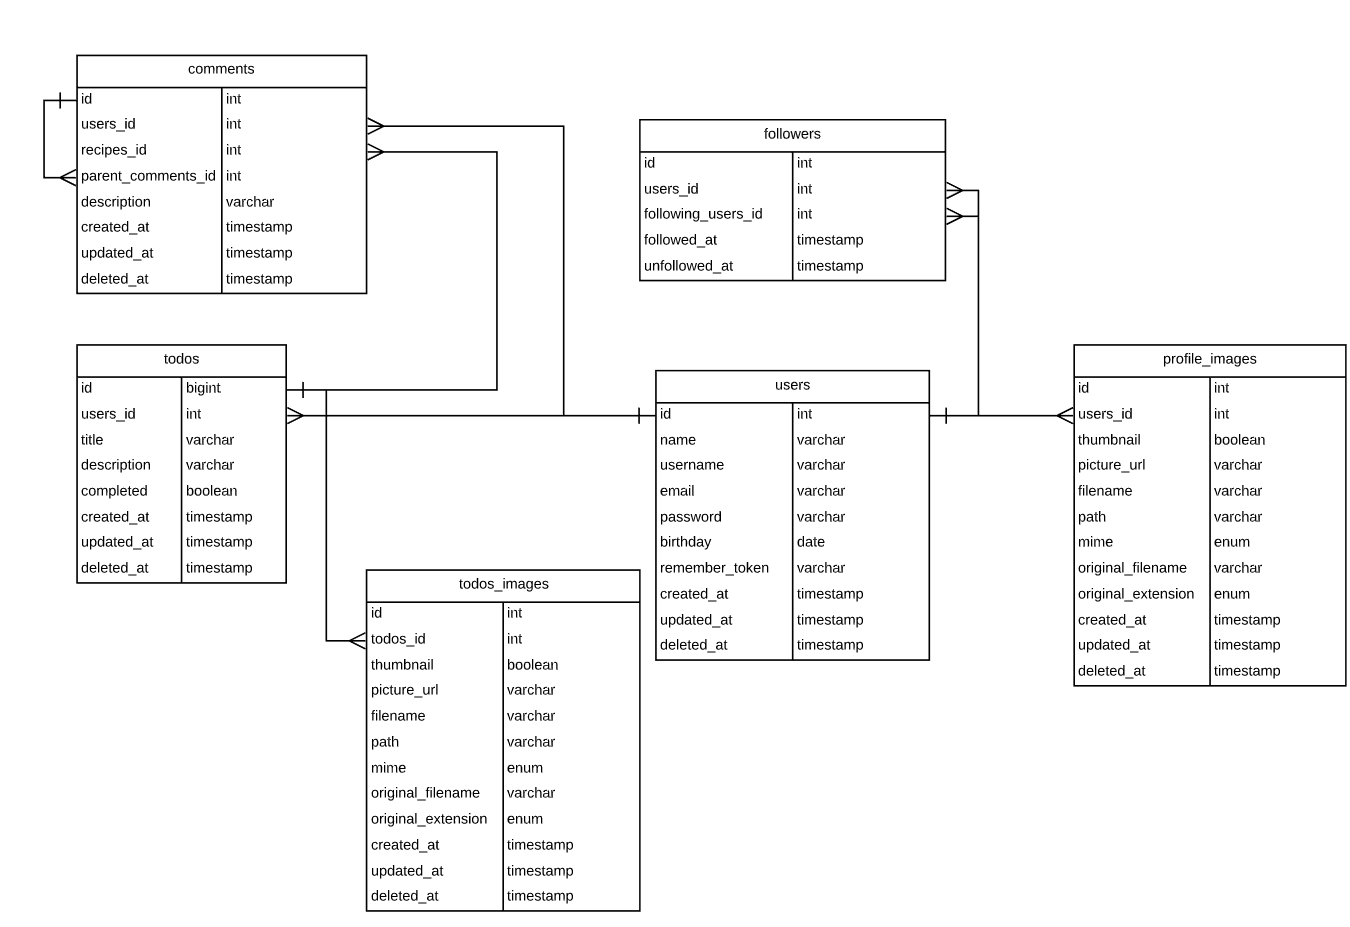
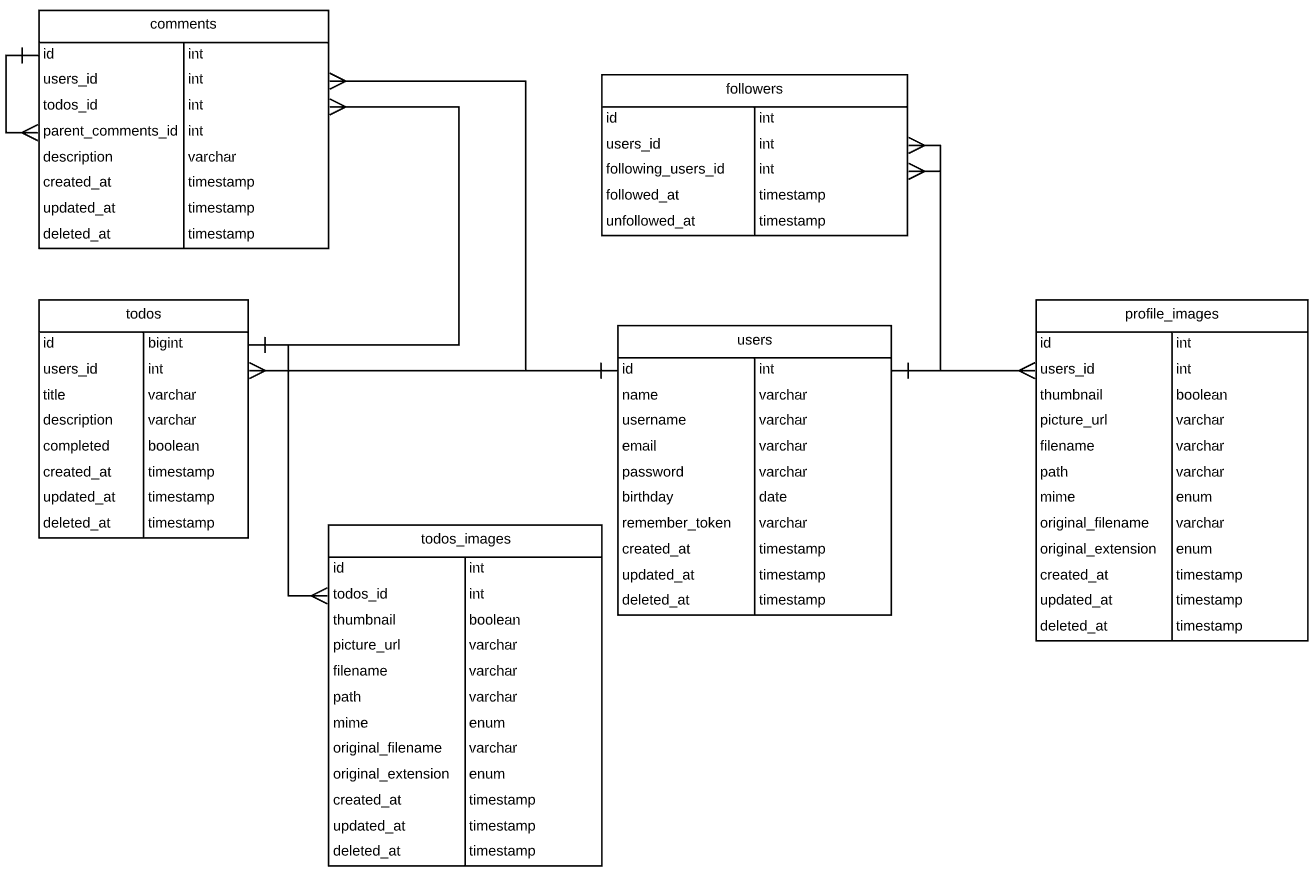
updating readme and changing ER image

Changed region(s): [[0.0, 0.0, 1.0, 1.0], [0.4362, 0.0924, 0.7166, 0.3079]]

diff --git a/README.md b/README.md
@@ -1,78 +1,105 @@
-<p align="center"><img src="https://res.cloudinary.com/dtfbvvkyp/image/upload/v1566331377/laravel-logolockup-cmyk-red.svg" width="400"></p>
+# Visão Geral
 
-<p align="center">
-<a href="https://travis-ci.org/laravel/framework"><img src="https://travis-ci.org/laravel/framework.svg" alt="Build Status"></a>
-<a href="https://packagist.org/packages/laravel/framework"><img src="https://poser.pugx.org/laravel/framework/d/total.svg" alt="Total Downloads"></a>
-<a href="https://packagist.org/packages/laravel/framework"><img src="https://poser.pugx.org/laravel/framework/v/stable.svg" alt="Latest Stable Version"></a>
-<a href="https://packagist.org/packages/laravel/framework"><img src="https://poser.pugx.org/laravel/framework/license.svg" alt="License"></a>
-</p>
+Todos Social é um pequeno projeto de código aberto que implementa os conceitos básicos de rede e mídia sociais. Foi desenvolvido com PHP utilizando Laravel Framework. Esse repositório é a RESTful
+API backend somente. O frontend é escrito em Angular 9 e poder ser visto aqui:
 
-## About Laravel
+[Todos Frontend](https://github.com/paduanton/todos-frontend)
 
-Laravel is a web application framework with expressive, elegant syntax. We believe development must be an enjoyable and creative experience to be truly fulfilling. Laravel takes the pain out of development by easing common tasks used in many web projects, such as:
+As entidades que esta API possui são: Users, Todos, ProfileImages, TodosImages, Followers e Comments. 
 
-- [Simple, fast routing engine](https://laravel.com/docs/routing).
-- [Powerful dependency injection container](https://laravel.com/docs/container).
-- Multiple back-ends for [session](https://laravel.com/docs/session) and [cache](https://laravel.com/docs/cache) storage.
-- Expressive, intuitive [database ORM](https://laravel.com/docs/eloquent).
-- Database agnostic [schema migrations](https://laravel.com/docs/migrations).
-- [Robust background job processing](https://laravel.com/docs/queues).
-- [Real-time event broadcasting](https://laravel.com/docs/broadcasting).
+#### Relacionamentos:
+- User pode ter N - Todos
+- User pode ter N - ProfileImages
+- User pode ter N - N Followers
+- User pode ter N - Comments (um comentário pertence a um Todos)
+- Todos pode ter N - Comments (N - N com User)
+- Todos pode ter N - TodosImages
+- ProfileImages pode ter 1 - User
+- TodosImages pode ter 1 - Todo
+- Todo pode ter 1 - User
 
-Laravel is accessible, powerful, and provides tools required for large, robust applications.
+As funcionalidades que englobam esta API consistem em permitir o usuário a criar um cadastro, se autenticar, criar todos (uma postagem), adicionar imagens a um todos, adicionar imagens de perfil, comentar todos e seguir outros usuários.
 
-## Learning Laravel
+Os endpoints disponíveis consistem em atualizar informações em relação a todas entidades. Existem todos endpoints para fazer operações de CRUD seguindo padrão Restful para atualizar informações de todas entidades.
 
-Laravel has the most extensive and thorough [documentation](https://laravel.com/docs) and video tutorial library of all modern web application frameworks, making it a breeze to get started with the framework.
+## Modelo ER do banco de dados
+![](https://raw.githubusercontent.com/paduanton/todos-social/master/public/ER.png)
 
-If you don't feel like reading, [Laracasts](https://laracasts.com) can help. Laracasts contains over 1500 video tutorials on a range of topics including Laravel, modern PHP, unit testing, and JavaScript. Boost your skills by digging into our comprehensive video library.
+## Requisitos de sistema (Mac OS, Windows ou Linux)
+* [Docker](https://www.docker.com/get-started)
+* [Docker Compose](https://docs.docker.com/compose/install)
 
-## Laravel Sponsors
 
-We would like to extend our thanks to the following sponsors for funding Laravel development. If you are interested in becoming a sponsor, please visit the Laravel [Patreon page](https://patreon.com/taylorotwell).
+## Setup do projeto
 
-- **[Vehikl](https://vehikl.com/)**
-- **[Tighten Co.](https://tighten.co)**
-- **[Kirschbaum Development Group](https://kirschbaumdevelopment.com)**
-- **[64 Robots](https://64robots.com)**
-- **[Cubet Techno Labs](https://cubettech.com)**
-- **[Cyber-Duck](https://cyber-duck.co.uk)**
-- **[British Software Development](https://www.britishsoftware.co)**
-- **[Webdock, Fast VPS Hosting](https://www.webdock.io/en)**
-- **[DevSquad](https://devsquad.com)**
-- [UserInsights](https://userinsights.com)
-- [Fragrantica](https://www.fragrantica.com)
-- [SOFTonSOFA](https://softonsofa.com/)
-- [User10](https://user10.com)
-- [Soumettre.fr](https://soumettre.fr/)
-- [CodeBrisk](https://codebrisk.com)
-- [1Forge](https://1forge.com)
-- [TECPRESSO](https://tecpresso.co.jp/)
-- [Runtime Converter](http://runtimeconverter.com/)
-- [WebL'Agence](https://weblagence.com/)
-- [Invoice Ninja](https://www.invoiceninja.com)
-- [iMi digital](https://www.imi-digital.de/)
-- [Earthlink](https://www.earthlink.ro/)
-- [Steadfast Collective](https://steadfastcollective.com/)
-- [We Are The Robots Inc.](https://watr.mx/)
-- [Understand.io](https://www.understand.io/)
-- [Abdel Elrafa](https://abdelelrafa.com)
-- [Hyper Host](https://hyper.host)
-- [Appoly](https://www.appoly.co.uk)
-- [OP.GG](https://op.gg)
+Adicione a seguinte linha no arquivo hosts da sua máquina:
+```
+127.0.0.1       api.todos.social
+```
 
-## Contributing
+Dentro do diretório do repositório, roda os seguintes comandos no bash.
 
-Thank you for considering contributing to the Laravel framework! The contribution guide can be found in the [Laravel documentation](https://laravel.com/docs/contributions).
+Copiar variáveis de ambiente do projeto:
+```
+cp .env.example .env
+```
 
-## Code of Conduct
+Montar e criar ambiente de dev local:
+```
+ docker-compose up --build
+```
 
-In order to ensure that the Laravel community is welcoming to all, please review and abide by the [Code of Conduct](https://laravel.com/docs/contributions#code-of-conduct).
+Instalar dependências e configurar permissões de diretórios e cache:
+```
+docker exec -it todosweb /bin/sh bootstrap.sh
+```
 
-## Security Vulnerabilities
+#### Autenticação de usuário OAuth2:
 
-If you discover a security vulnerability within Laravel, please send an e-mail to Taylor Otwell via [taylor@laravel.com](mailto:taylor@laravel.com). All security vulnerabilities will be promptly addressed.
+Nesta aplicação, através do Laravel foi utilizado autenticação OAuth2 utilizando biblioteca [Passport](https://laravel.com/docs/7.x/passport), então é possível consumir autenticação server side através de um Json Web Token.
 
-## License
+#### Observações
 
-The Laravel framework is open-sourced software licensed under the [MIT license](https://opensource.org/licenses/MIT).
+No arquivo **./bootstrap.sh** estão todos comandos para configurar o projeto, então para fazer alterações dentro do container é preciso somente rodar o arquivo e setar os comandos nele.
+
+## Autenticação
+
+To signup, send a POST request to `/api/auth/signup` with the data:
+* nome      | String 
+* sobrenome | String
+* email     | String (email format)
+* password - String
+* deficiente boolean
+
+To login send a POST request to `/api/auth/login` with the data:
+* email
+* password
+
+On success, an API access token will be returned with the type of it and its timing to expire:
+```json
+{
+    "access_token": "eyJ0eXAiOiJKV1QiLCJhbGciOiJSUzI1NiIsImp0aSI6Ic4ZDAwNG",
+    "token_type": "Bearer",
+    "expires_at": "2019-12-22 20:50:42"
+}
+```
+
+All subsequent API requests must include this token in the HTTP header for user identification.
+Header key will be `Authorization` with value of 'Bearer' followed by a single space and then token string:
+```
+Authorization: Bearer eyJ0eXAiOiJKV1QiLCJhbGciOiJSUzI1NiIsImp0aSI6Ic4ZDAwNG
+```
+
+
+## API Documentation
+Coming soon...
+<!--
+To view API documentation, run development server and visit [http://127.0.0.1:8000/docs/](http://127.0.0.1:8000/docs/)
+-->
+## Links
+
+https://www.getpostman.com/collections/18009794791e5384e19a
+<!-- - [API Docs](http://127.0.0.1:8000/docs/) -->
+- [Frontend (GitHub)](https://github.com/nataliaPintos/EyeSee)
+- [Natália (GitHub)](https://github.com/nataliaPintos)
+- [Antonio (GitHub)](https://github.com/paduanton)
